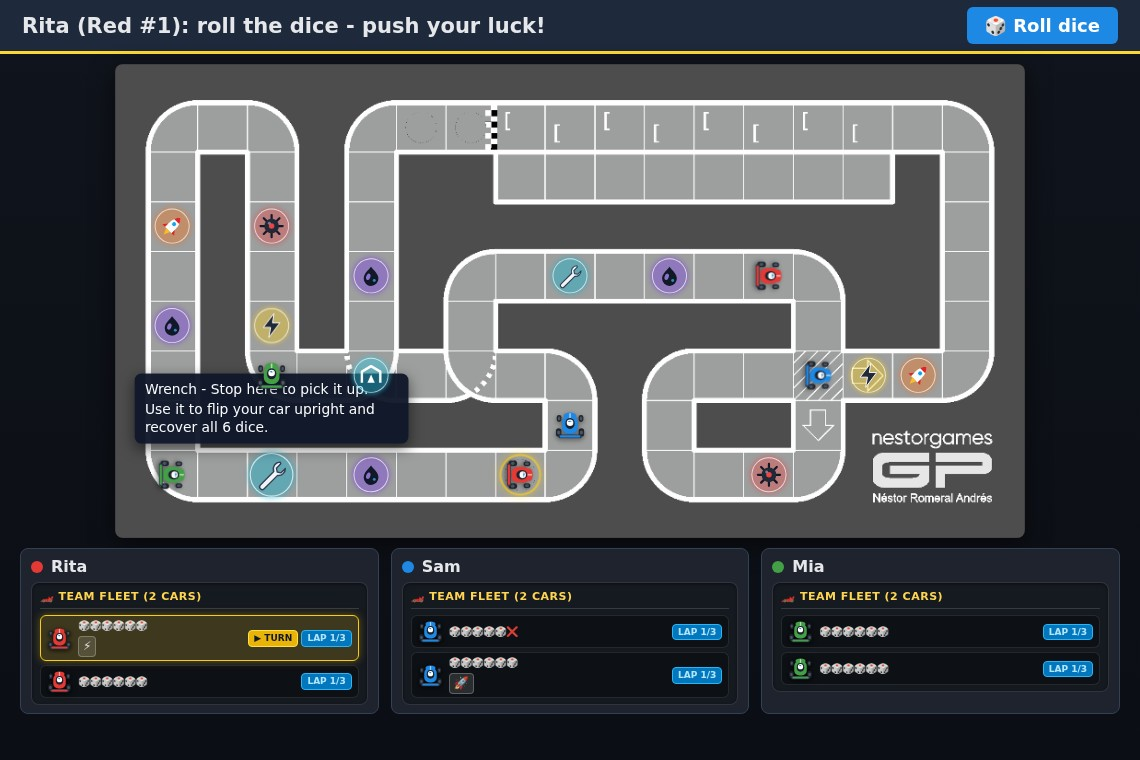
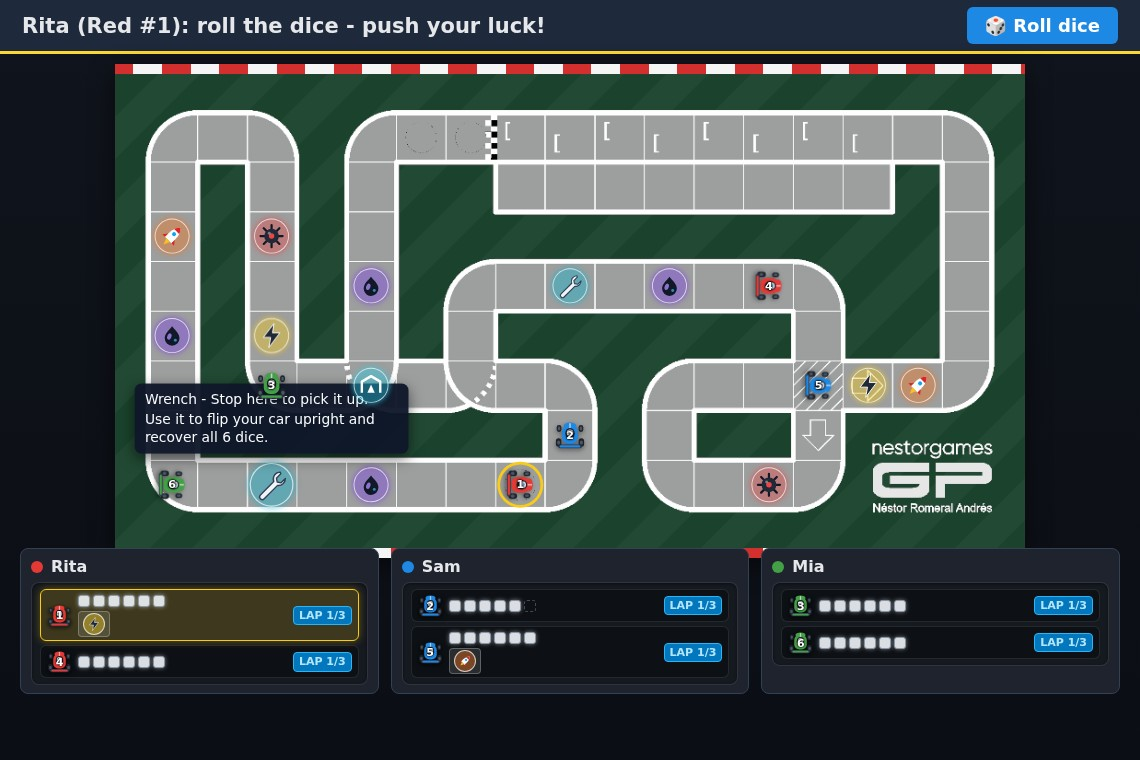
feat(nestorgamesgp): mobile zoomed pan-able board, sound and colorblind preferences, racing background, item tooltips in panels

diff --git a/games/nestorgamesgp/bga/modules/js/Game.js b/games/nestorgamesgp/bga/modules/js/Game.js
@@ -460,9 +460,13 @@ export class Game {
         this.initCircuit(gamedatas.circuit);
         this.gateOpen = !!gamedatas.gate_open;
         this.currentCarModel = (this.bga?.userPreferences?.get?.(100) == 2) ? 'chibi_f1' : 'chibi_kart';
+        this.colorblindMode = this.bga?.userPreferences?.get?.(101) != 2;
+        this.sound.muted = this.bga?.userPreferences?.get?.(102) == 2;
         this.initDom();
+        document.getElementById('gp_game_container')?.classList.toggle('gp_colorblind', this.colorblindMode);
         this.initBoardScaler();
         this.renderBoard();
+        this._updateScale?.();
         this.renderTrackItems();
         this.renderRacers(this.racers);
         this.renderQualifyingBoard(this.qualifyingBoard, this.qualifyingActive);
@@ -514,8 +518,12 @@ export class Game {
             container = document.createElement('div');
             container.id = 'gp_game_container';
             container.innerHTML = `
-                <div id="gp_board_scaler">
-                    <div id="gp_board"></div>
+                <div id="gp_board_viewport" class="gp_board_viewport">
+                    <div id="gp_board_sizer" class="gp_board_sizer">
+                        <div id="gp_board_scaler">
+                            <div id="gp_board"></div>
+                        </div>
+                    </div>
                 </div>
             `;
             main.appendChild(container);
@@ -550,6 +558,7 @@ export class Game {
                 activeCar.classList.add('gp_car_active');
             }
         }
+        this.focusActiveCar(true);
     }
 
     isCurrentPlayerActive() {
@@ -620,23 +629,85 @@ export class Game {
     initBoardScaler() {
         const container = document.getElementById('gp_game_container');
         const scaler = document.getElementById('gp_board_scaler');
-        if (!container || !scaler) return;
+        const sizer = document.getElementById('gp_board_sizer');
+        const viewport = document.getElementById('gp_board_viewport');
+        const board = document.getElementById('gp_board');
+        if (!container || !scaler || !sizer || !viewport) return;
+        this.boardViewport = viewport;
+        this.boardContainer = container;
 
+        const PAD = 8; // margin around the board so a drag never starts on a component
         const updateScale = () => {
             const availW = container.clientWidth || window.innerWidth;
-            let scale = Math.min(1.0, availW / this.BOARD_WIDTH);
-            if (scale < 0.3) scale = 0.3;
+            const fit = Math.min(1.0, availW / this.BOARD_WIDTH);
+            // Phones: zoom in so roughly half the circuit fills the screen; the player drags to look around
+            const zoomed = availW < 720;
+            let scale = zoomed ? Math.min(1.0, Math.max(fit, (availW - 2 * PAD) / (this.BOARD_WIDTH * 0.5))) : fit;
+            scale = Math.max(0.3, scale);
+            this.boardScale = scale;
+            this.mobileZoom = zoomed && scale > fit + 0.02;
 
             scaler.style.transform = `scale(${scale})`;
             scaler.style.transformOrigin = 'top left';
-            container.style.height = `${Math.ceil(this.BOARD_HEIGHT * scale + 60)}px`;
+            sizer.style.width = `${Math.ceil(this.BOARD_WIDTH * scale)}px`;
+            sizer.style.height = `${Math.ceil(this.BOARD_HEIGHT * scale)}px`;
+            viewport.style.padding = this.mobileZoom ? `${PAD}px` : '0';
+            container.classList.toggle('gp_mobile', this.mobileZoom);
+            // Overlay texts are drawn in board units; keep them readable on screen when the board is zoomed out
+            board.style.setProperty('--gp-inv', this.mobileZoom ? String(Math.min(2, 1.25 / scale)) : '1');
+
+            // The dice tray and qualifying panel must stay in view while the board is panned
+            const tray = document.getElementById('gp_dice_tray');
+            const qual = document.getElementById('gp_qualifying_panel');
+            if (this.mobileZoom) {
+                if (tray && tray.parentElement !== container) container.appendChild(tray);
+                if (qual && qual.parentElement !== container) container.appendChild(qual);
+            } else {
+                if (tray && tray.parentElement !== board) board.appendChild(tray);
+                if (qual && qual.parentElement !== board) board.appendChild(qual);
+            }
+            this._lastFocusKey = null;
+            this.focusActiveCar(false);
         };
 
+        // Mouse drag to pan (touch uses native scrolling)
+        let drag = null;
+        viewport.addEventListener('pointerdown', e => {
+            if (e.pointerType !== 'mouse' || !this.mobileZoom) return;
+            drag = { x: e.clientX, y: e.clientY, left: viewport.scrollLeft, top: viewport.scrollTop };
+            viewport.setPointerCapture(e.pointerId);
+        });
+        viewport.addEventListener('pointermove', e => {
+            if (!drag) return;
+            viewport.scrollLeft = drag.left - (e.clientX - drag.x);
+            viewport.scrollTop = drag.top - (e.clientY - drag.y);
+        });
+        const endDrag = () => { drag = null; };
+        viewport.addEventListener('pointerup', endDrag);
+        viewport.addEventListener('pointercancel', endDrag);
+
+        this._updateScale = updateScale;
         window.addEventListener('resize', updateScale);
         if (typeof ResizeObserver !== 'undefined') {
             new ResizeObserver(updateScale).observe(container);
         }
         updateScale();
+    }
+
+    focusActiveCar(smooth = true) {
+        if (!this.mobileZoom || !this.boardViewport) return;
+        const racer = this.getRacerData(this.activeRacerId);
+        if (!racer) return;
+        const key = `${racer.racer_id ?? racer.player_id}:${racer.space_id}`;
+        if (key === this._lastFocusKey) return;
+        this._lastFocusKey = key;
+        const c = this.getSpaceCoordinates(racer.space_id);
+        const vp = this.boardViewport;
+        vp.scrollTo({
+            left: c.x * this.boardScale + 8 - vp.clientWidth / 2,
+            top: c.y * this.boardScale + 8 - vp.clientHeight / 2,
+            behavior: smooth ? 'smooth' : 'auto',
+        });
     }
 
     renderBoard() {
@@ -776,6 +847,15 @@ export class Game {
             case 'wrench': return _('Wrench');
             case 'turboboost': return _('Turbo Boost');
             default: return type;
+        }
+    }
+
+    getItemUseDesc(type) {
+        switch (type) {
+            case 'rocket': return _('Use before rolling: fire at the car directly ahead in a straight line. Roll a die; if it is at least the distance, that car and all cars on its space crash.');
+            case 'wrench': return _('Use before rolling: flip your car upright and recover all 6 dice.');
+            case 'turboboost': return _('Use before rolling: your highest die counts twice this turn (lost if you stall).');
+            default: return '';
         }
     }
 
@@ -982,7 +1062,7 @@ export class Game {
                     const carInv = (this.racerInventories && this.racerInventories[rId]) || [];
                     if (carInv.length > 0) {
                         itemsHtml = `<div class="gp_car_items_row">${carInv.map(type =>
-                            `<span class="gp_car_item_badge" title="${this.getItemName(type)}">${this.getItemIcon(type)}</span>`).join('')}</div>`;
+                            `<span class="gp_car_item_badge" tabindex="0" role="button" data-tip="${this.getItemName(type)} - ${this.getItemUseDesc(type)}" aria-label="${this.getItemName(type)}">${this.getItemIcon(type)}</span>`).join('')}</div>`;
                     }
                 }
 
@@ -997,7 +1077,6 @@ export class Game {
                             ${itemsHtml}
                         </div>
                         <div class="gp_team_car_status">
-                            ${isActiveCar ? `<span class="gp_team_car_tag active_driving">${_('Turn')}</span>` : ''}
                             ${carStatus}
                         </div>
                     </div>
@@ -1005,6 +1084,9 @@ export class Game {
             });
 
             panelInfo.innerHTML = `<div class="gp_team_cars_list">${carsHtml}</div>`;
+            panelInfo.querySelectorAll('.gp_car_item_badge').forEach(badge => {
+                badge.addEventListener('click', () => badge.classList.toggle('gp_item_pinned'));
+            });
         });
     }
 

diff --git a/games/nestorgamesgp/bga/nestorgamesgp.css b/games/nestorgamesgp/bga/nestorgamesgp.css
@@ -8,10 +8,56 @@
     margin: 0 auto;
     position: relative;
     overflow: hidden;
-    background-color: #1a1a1a;
     border-radius: 8px;
     box-shadow: 0 8px 24px rgba(0, 0, 0, 0.5);
     user-select: none;
+    /* Asphalt with a faint chequered-flag texture and red/white kerb stripes top and bottom */
+    background:
+        linear-gradient(45deg, rgba(255, 255, 255, 0.035) 25%, transparent 25%, transparent 75%, rgba(255, 255, 255, 0.035) 75%) 0 0 / 44px 44px,
+        linear-gradient(45deg, rgba(255, 255, 255, 0.035) 25%, transparent 25%, transparent 75%, rgba(255, 255, 255, 0.035) 75%) 22px 22px / 44px 44px,
+        radial-gradient(ellipse at 50% 30%, #2f343d 0%, #1b1e24 75%);
+    border-top: 10px solid transparent;
+    border-bottom: 10px solid transparent;
+    border-image: repeating-linear-gradient(90deg, #d32f2f 0 28px, #f5f5f5 28px 56px) 10;
+}
+
+.gp_board_viewport {
+    overflow: hidden;
+    -webkit-overflow-scrolling: touch;
+}
+
+.gp_board_sizer {
+    position: relative;
+}
+
+#gp_game_container.gp_mobile .gp_board_viewport {
+    overflow: auto;
+    touch-action: pan-x pan-y;
+    cursor: grab;
+}
+
+/* Dice tray and qualifying grid stay on screen while the zoomed board is panned */
+#gp_game_container > .gp_dice_tray {
+    position: absolute;
+    top: 10px;
+    left: 50%;
+    transform: translateX(-50%);
+    max-width: calc(100% - 16px);
+}
+
+#gp_game_container > .gp_qualifying_panel {
+    position: static;
+    width: auto;
+    margin: 8px;
+}
+
+/* Car numbers: colorblind support preference */
+.gp_car_num {
+    display: none;
+}
+
+#gp_game_container.gp_colorblind .gp_car_num {
+    display: block;
 }
 
 #gp_board_scaler {
@@ -276,7 +322,7 @@
     border: 1.5px solid currentColor;
     border-radius: 12px;
     padding: 2px 7px;
-    font-size: 11px;
+    font-size: calc(11px * var(--gp-inv, 1));
     font-weight: 800;
     white-space: nowrap;
     box-shadow: 0 3px 8px rgba(0, 0, 0, 0.8);
@@ -360,7 +406,7 @@
     transform: translate(-50%, -50%);
     background: #fdd835;
     color: #111;
-    font-size: 13px;
+    font-size: calc(13px * var(--gp-inv, 1));
     font-weight: 900;
     padding: 3px 10px;
     border-radius: 12px;
@@ -443,7 +489,7 @@
     transform: translate(-50%, -50%);
     background: rgba(220, 20, 60, 0.95);
     color: #ffffff;
-    font-size: 13px;
+    font-size: calc(13px * var(--gp-inv, 1));
     font-weight: 900;
     padding: 4px 12px;
     border-radius: 14px;
@@ -513,7 +559,7 @@
     transform: translateX(-50%);
     background: #d50000;
     color: #fff;
-    font-size: 11px;
+    font-size: calc(11px * var(--gp-inv, 1));
     font-weight: 900;
     padding: 2px 7px;
     border-radius: 10px;
@@ -962,7 +1008,7 @@
     border-radius: 6px;
     background: rgba(15, 23, 42, 0.96);
     color: #f8fafc;
-    font-size: 12px;
+    font-size: calc(12px * var(--gp-inv, 1));
     line-height: 1.35;
     text-align: left;
     white-space: normal;
@@ -1192,7 +1238,7 @@
     top: 50%;
     left: 50%;
     transform: translate(-50%, -50%) rotate(calc(-1 * var(--car-angle, 0deg)));
-    font-size: 12px;
+    font-size: calc(12px * var(--gp-inv, 1));
     font-weight: 700;
     line-height: 1;
     color: #fff;
@@ -1284,4 +1330,70 @@
 
 .gp_standings p {
     margin: 8px 0 0;
+}
+
+/* Item tooltips in the player panel (hover or tap to pin) */
+.gp_car_item_badge {
+    position: relative;
+    cursor: help;
+}
+
+.gp_car_item_badge::after {
+    content: attr(data-tip);
+    position: absolute;
+    top: calc(100% + 6px);
+    right: 0;
+    width: 230px;
+    padding: 6px 9px;
+    border-radius: 6px;
+    background: rgba(15, 23, 42, 0.97);
+    color: #f8fafc;
+    font-size: 12px;
+    line-height: 1.35;
+    text-align: left;
+    white-space: normal;
+    box-shadow: 0 4px 12px rgba(0, 0, 0, 0.5);
+    opacity: 0;
+    pointer-events: none;
+    z-index: 100;
+}
+
+.gp_car_item_badge:hover::after,
+.gp_car_item_badge:focus::after,
+.gp_car_item_badge.gp_item_pinned::after {
+    opacity: 1;
+}
+
+/* Phones: bigger text everywhere outside the zoomed board */
+@media (max-width: 720px) {
+    .gp_team_car_tag,
+    .gp_qual_player_name,
+    .gp_qual_rank,
+    .gp_qual_score,
+    .gp_qual_status_tag,
+    .gp_qual_title,
+    .gp_dice_tray_header,
+    .gp_inv_empty {
+        font-size: 13px;
+    }
+
+    .gp_standings,
+    .gp_standings td,
+    .gp_standings th {
+        font-size: 14px;
+    }
+
+    .gp_team_car_row {
+        padding: 5px 7px;
+    }
+
+    .gp_panel_pip {
+        width: 14px;
+        height: 14px;
+    }
+
+    .gp_car_item_badge::after {
+        font-size: 13px;
+        width: 200px;
+    }
 }
